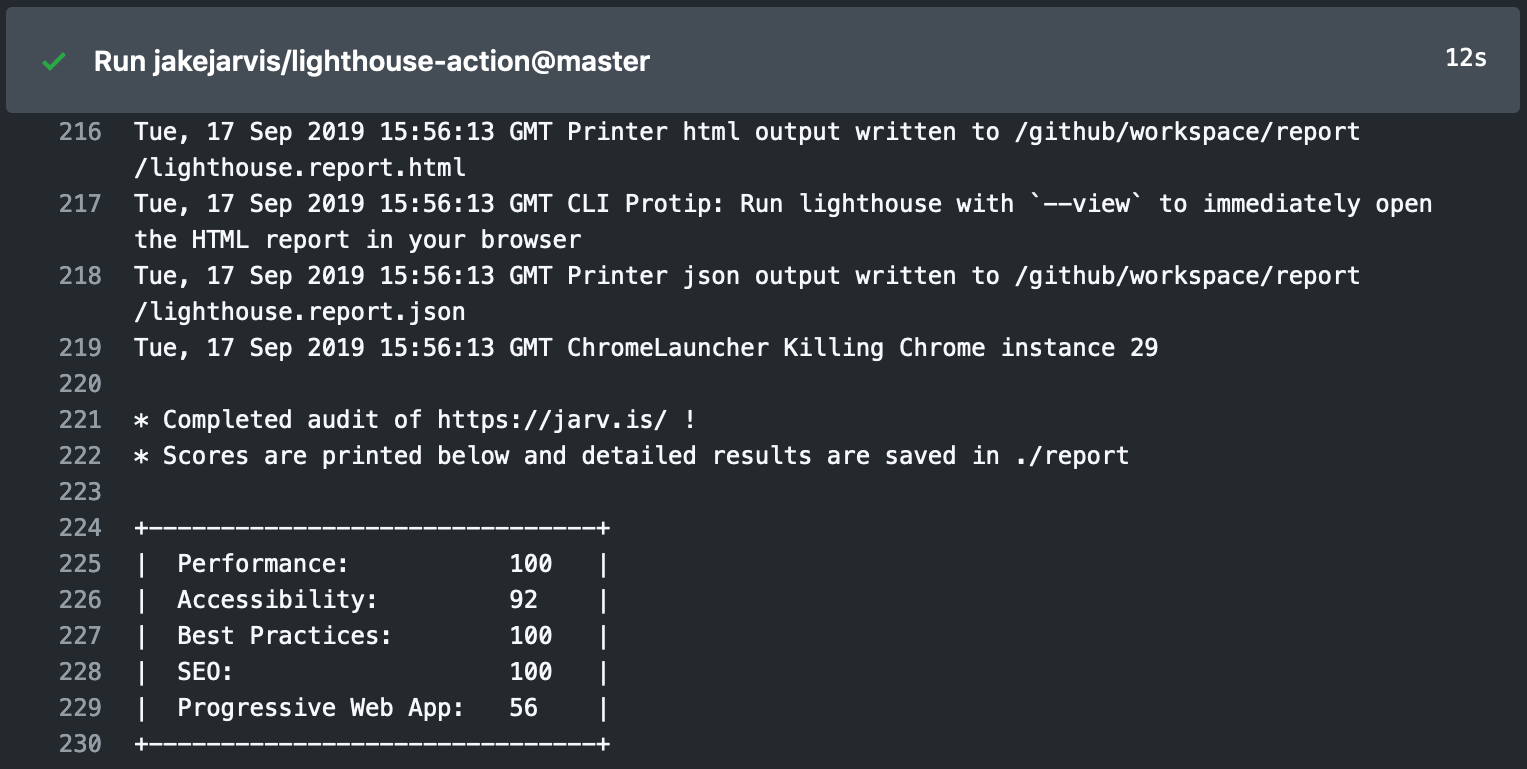
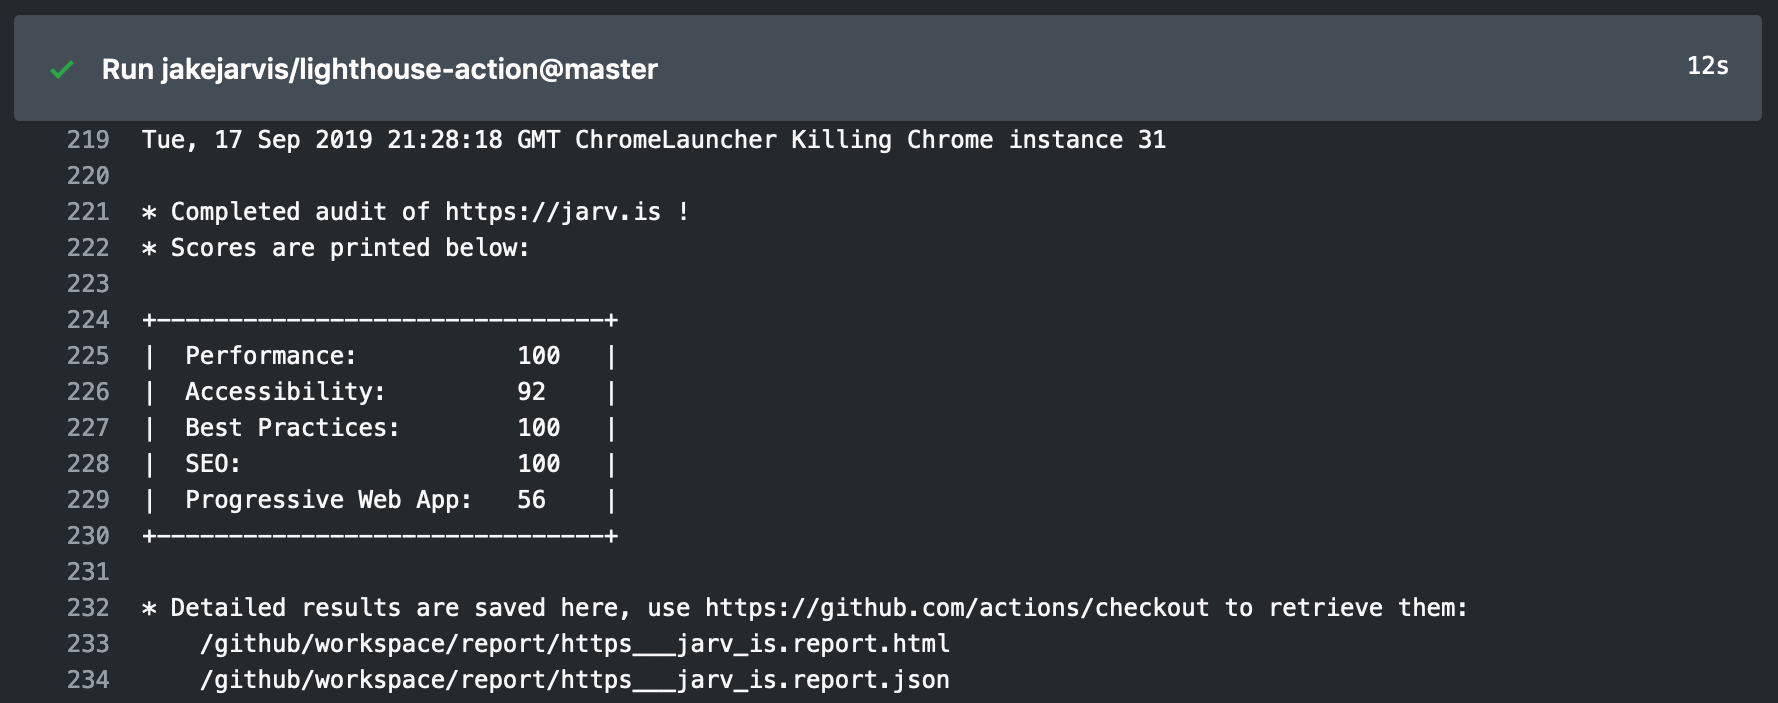
Improve log output -- print full path of results files in container

Changed region(s): [[0.0, 0.0, 1.0, 0.9858], [0.6771, 0.5676, 0.7387, 0.6273]]

diff --git a/README.md b/README.md
@@ -7,7 +7,7 @@
 This action integrates Google's helpful [Lighthouse audits](https://developers.google.com/web/tools/lighthouse/) for webpages — specifically testing for Performance, Accessibility, Best Practices, SEO, and Progressive Web Apps. Right now, the action will print the five scores (out of 100) to the output and upload HTML and JSON versions of the report as artifacts. In the next release, the action will let you specify thresholds for each test and optionally fail this step if they are not met.
 
 <p align="center"><img src="https://raw.githubusercontent.com/jakejarvis/lighthouse-action/master/screenshots/screenshot-report.png" alt="Example HTML report"></p>
-<p align="center"><img src="https://raw.githubusercontent.com/jakejarvis/lighthouse-action/master/screenshots/screenshot-output.png" alt="Example command line output"></p>
+<p align="center"><img src="https://raw.githubusercontent.com/jakejarvis/lighthouse-action/master/screenshots/screenshot-output.png" alt="Example command line output" width="750"></p>
 <p align="center"><img src="https://raw.githubusercontent.com/jakejarvis/lighthouse-action/master/screenshots/screenshot-artifact.png" alt="Example HTML report" width="320"></p>
 
 Inspired by [GoogleChromeLabs/lighthousebot](https://github.com/GoogleChromeLabs/lighthousebot).
